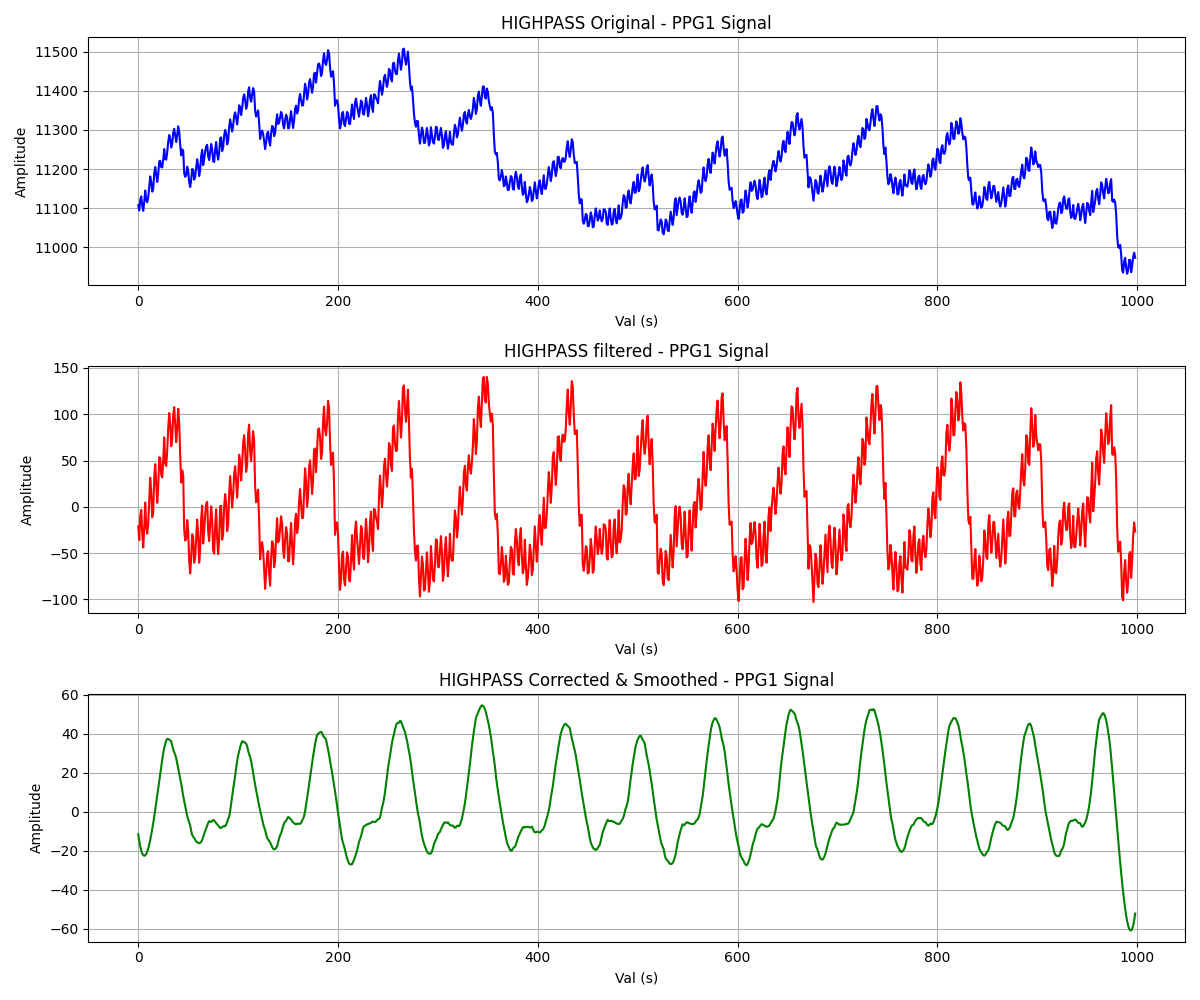
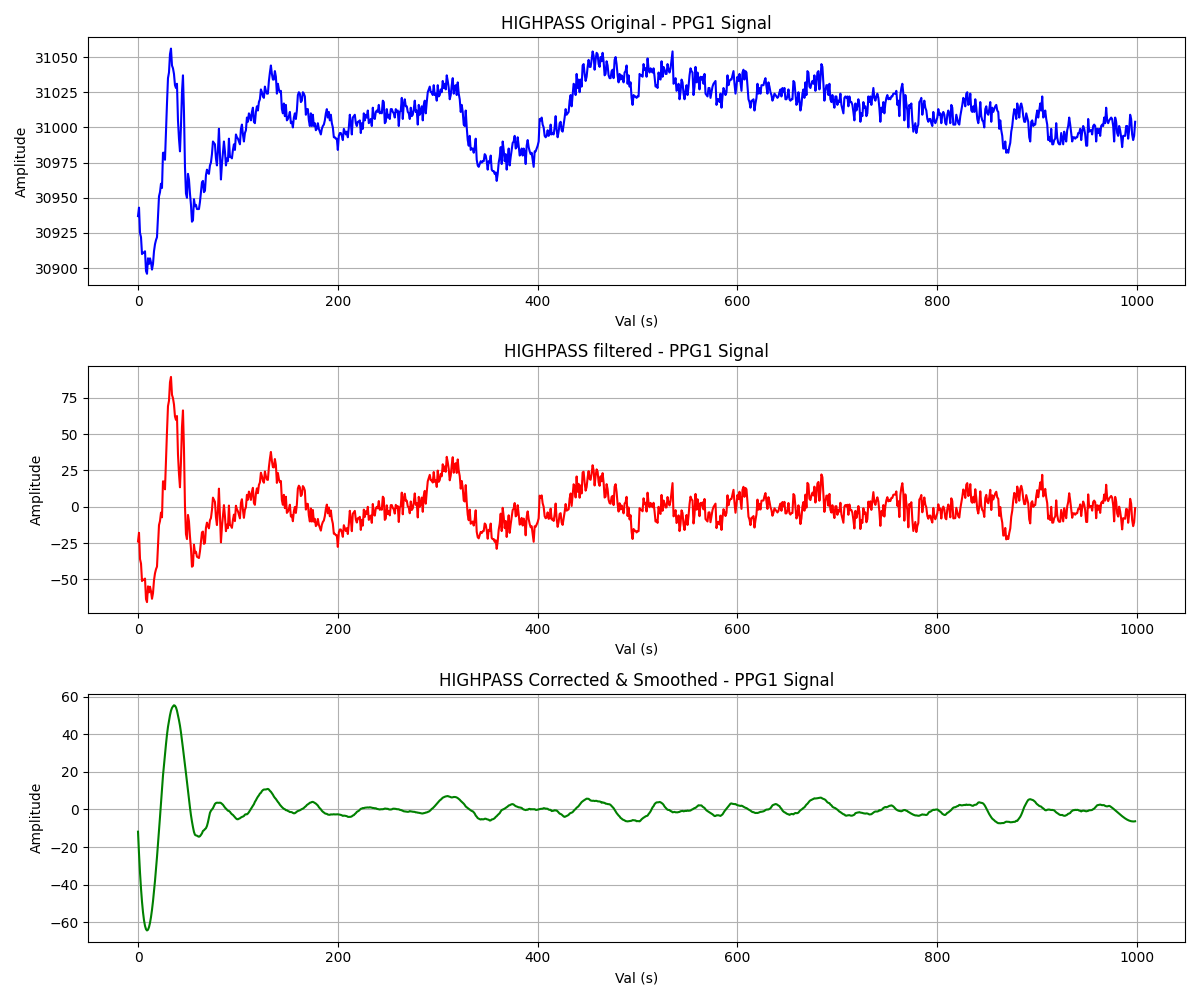
AR

diff --git a/highpass.py b/highpass.py
@@ -5,7 +5,7 @@ from scipy import signal
 
 
 # Load PPG data from CSV file
-ppg_data = pd.read_csv("ppg_Green/green2_AR.csv")
+ppg_data = pd.read_csv("ppg_GREEN/ir1_AR.csv")
 noisy_ppg_1 = ppg_data["PPG1"].values
 noisy_ppg_2 = ppg_data["PPG2"].values
 
@@ -27,7 +27,7 @@ b, a = signal.butter(order, cutoff / nyquist_freq, btype='high')
 
 # Apply highpass filter to PPG signal
 filtered_ppg_1 = signal.filtfilt(b, a, noisy_ppg_1)
-filtered_ppg_2 = signal.filtfilt(b, a, noisy_ppg_2)
+#filtered_ppg_2 = signal.filtfilt(b, a, noisy_ppg_2)
 
 # Baseline Correction
 baseline_ppg_1 = signal.medfilt(filtered_ppg_1, kernel_size=51)  # Apply a median filter as a baseline
